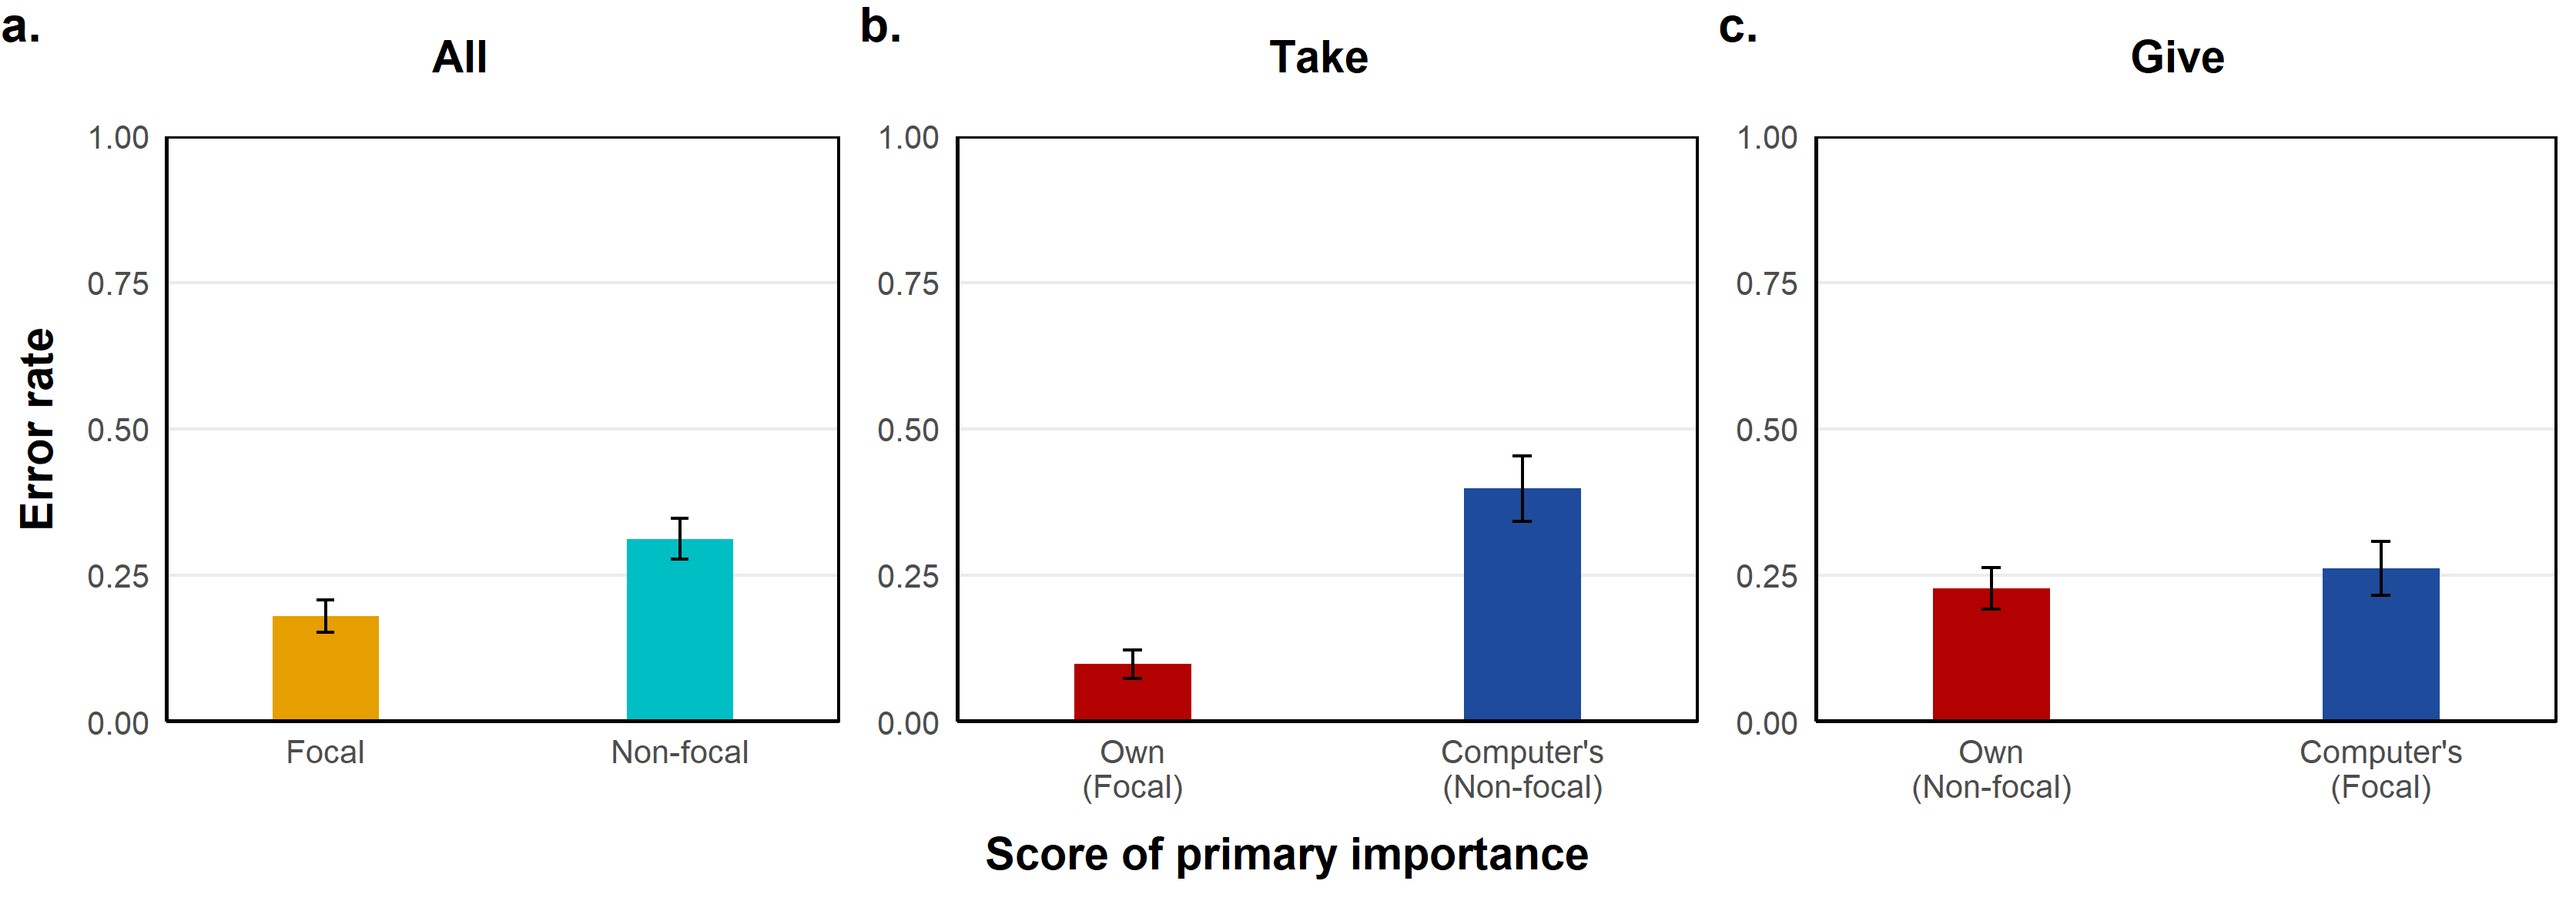
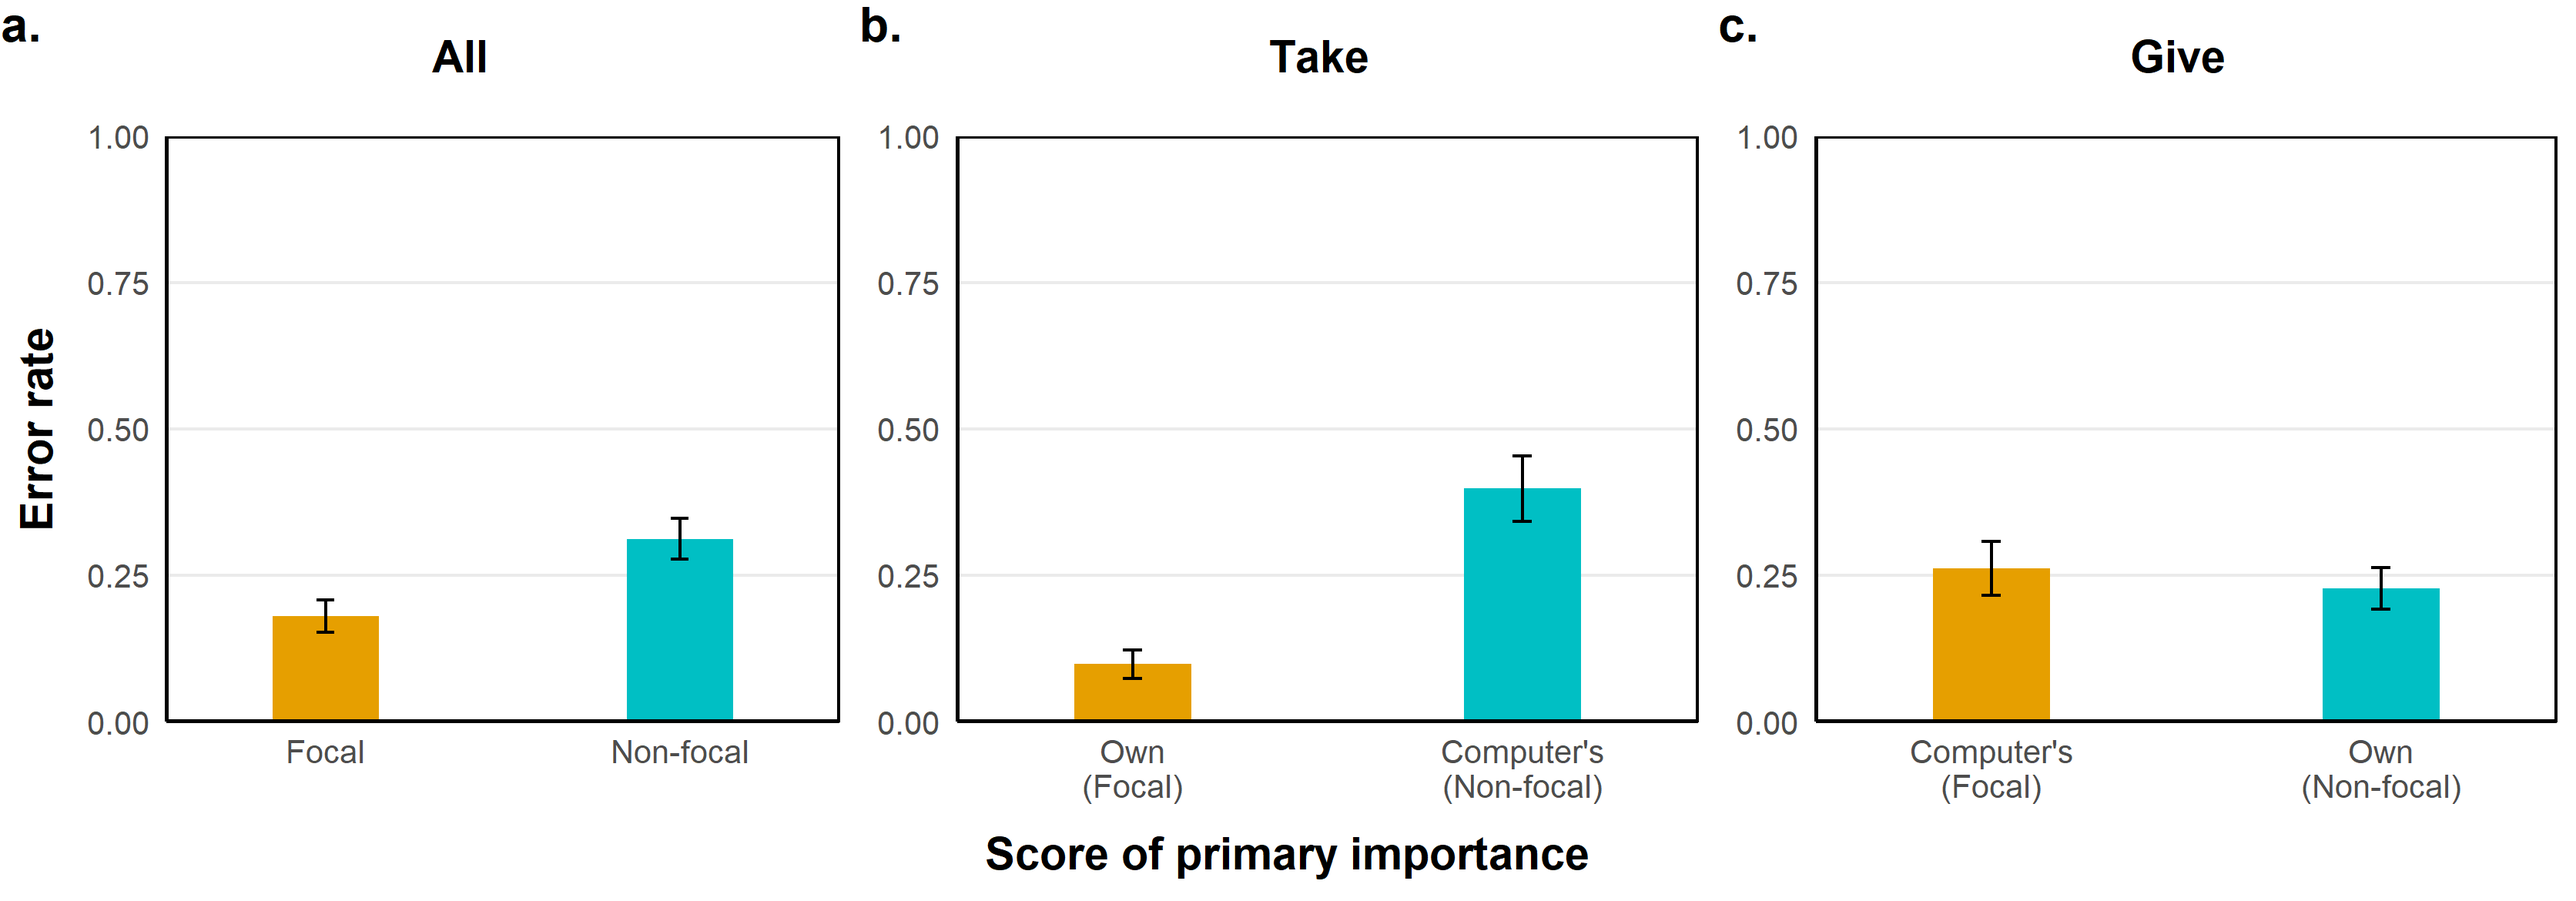
minor edits

diff --git a/tables_and_charts/numbers_check.md b/tables_and_charts/numbers_check.md
@@ -8,9 +8,9 @@ Linear combinations use t(clusters - 1); round-level models cluster by subject_i
 | Location | Statistic | Value | Unrounded |
 |---|---|---|---|
 | Intro; Results opening; Discussion | Participants / decisions / rounds each | 246 participants, 5,904 decisions, 24 rounds |  |
-| Results opening; SI Section 1 title and captions | Passed all comprehension checks on first try | 58.1% (143 participants) |  |
-| Fig. 2 caption; Supp. Fig. 6 caption | Participants per framing condition, full sample | Take N = 122, Give N = 124 |  |
-| Supp. Fig. 1 caption | Participants per framing condition, passed comprehension checks | Take N = 69, Give N = 74 |  |
+| Methods, Additional procedure details; SI Section 6 title and captions | Passed all comprehension checks on first try | 58.1% (143 participants) |  |
+| Fig. 2 caption; Supp. Fig. 10 caption | Participants per framing condition, full sample | Take N = 122, Give N = 124 |  |
+| Supp. Fig. 5 caption | Participants per framing condition, passed comprehension checks | Take N = 69, Give N = 74 |  |
 | Methods, Participants | Participants per cell (framing x first role) | take/adversarial-first = 62; take/cooperative-first = 60; give/adversarial-first = 63; give/cooperative-first = 61 |  |
 | Methods, Participants | Gender | 54% male, 44% female, 1% other (3) |  |
 | Methods, Participants | Race/ethnicity | White / Caucasian 75%; Black / African-American 11%; Asian / Asian-American 9%; Latino / Hispanic 4%; Multiple, mixed, or other 2% | White / Caucasian = 184; Black / African-American = 26; Asian / Asian-American = 21; Latino / Hispanic = 9; Multiple, mixed, or other = 6 |
@@ -24,7 +24,7 @@ Linear combinations use t(clusters - 1); round-level models cluster by subject_i
 | Location | Statistic | Value | Unrounded |
 |---|---|---|---|
 | Intro; Results, Egocentrism; Discussion | Egocentrism gap (Table 2 reg. 1, b1 + b3/2) | 17 pp (95% CI [13, 21], t(245) = 8.46, p < .001) | est = 0.1667, SE = 0.0197 |
-| Results, Egocentrism; SI Table 4 | Points lost per round (reg. 1, b1 + b3/2) | 0.36 points (95% CI [0.26, 0.45], t(245) = 7.43, p < .001) | est = 0.3572, SE = 0.0481 |
+| Results, Egocentrism; SI Table 2 | Points lost per round (reg. 1, b1 + b3/2) | 0.36 points (95% CI [0.26, 0.45], t(245) = 7.43, p < .001) | est = 0.3572, SE = 0.0481 |
 | Results, Egocentrism | Gap larger in Cooperative than Adversarial (Table 2 reg. 2, OwnScoreSecondary x Coop) | 5 pp (95% CI [-1, 12], t(245) = 1.62, p = .107) | est = 0.0522, SE = 0.0323 |
 | Intro; Results, Egocentrism (Fig. 2b,c) | Egocentrism gap, Adversarial (reg. 2) | 14 pp (95% CI [9, 19], t(245) = 5.77, p < .001) | est = 0.1406, SE = 0.0244 |
 | Intro; Results, Egocentrism (Fig. 2b,c) | Egocentrism gap, Cooperative (reg. 2) | 19 pp (95% CI [14, 25], t(245) = 7.26, p < .001) | est = 0.1928, SE = 0.0266 |
@@ -58,46 +58,46 @@ Linear combinations use t(clusters - 1); round-level models cluster by subject_i
 | Intro p1 (Adversarial) / p2 (Cooperative) | Cooperative rounds, pooled (all participants): own > 6 / computer > 6 | own 44%, computer 20% |  |
 | Intro p1 (Adversarial) / p2 (Cooperative) | Cooperative rounds, Take/Give equally weighted: own > 6 / computer > 6 | own 44%, computer 20% |  |
 | Results, Heterogeneity p3; Methods, Heterogeneity | Two-sided binomial p for > 17 of 24 | p = .023 | 0.0227 |
-| SI Table 5 caption | Two-sided binomial p for at least 10 of 12 | p = .039 | 0.0386 |
+| SI Table 3 caption | Two-sided binomial p for at least 10 of 12 | p = .039 | 0.0386 |
 | Results, Heterogeneity p3 | Take: consistent own / computer (> 17 of 24), binomial test | own 25%, computer 0% (31 vs 0, p < .001) |  |
 | Results, Heterogeneity p3 | Give: consistent own / computer (> 17 of 24) | own 8%, computer 4% |  |
 | Results, Heterogeneity p3 | Pooled: consistent own vs computer (binomial test) | 17% vs 2%, p < .001 | counts 41 vs 5 |
 | Results, Heterogeneity p3 | Pooled: consistent focal vs non-focal (binomial test) | 15% vs 4%, p < .001 | counts 36 vs 10 |
-| SI Table 6 caption | Self-report own vs computer (binomial test) | 38 vs 5, p < .001 | counts 38 vs 5 |
-| SI Table 6 caption | Self-report focal vs non-focal (binomial test) | 30 vs 13, p = .014 | counts 30 vs 13 |
-| SI Table 6 caption | Self-report, adv rounds: own vs computer; focal vs non-focal (raw counts, binomial) | 72 vs 20, p < .001; 44 vs 48, p = .755 |  |
-| SI Table 6 caption | Self-report, coop rounds: own vs computer; focal vs non-focal (raw counts, binomial) | 24 vs 19, p = .542; 22 vs 21, p = 1.000 |  |
-| SI Table 6 caption | Own-score pod share, self-report 'both', controlling for Take/Give | 56.4% (Take/Give equally weighted); 56.4% (regression-adjusted) |  |
-| SI Table 6 caption | Own-score pod share, self-report 'own', controlling for Take/Give | 69.3% (Take/Give equally weighted); 70.1% (regression-adjusted) |  |
+| SI Table 4 caption | Self-report own vs computer (binomial test) | 38 vs 5, p < .001 | counts 38 vs 5 |
+| SI Table 4 caption | Self-report focal vs non-focal (binomial test) | 30 vs 13, p = .014 | counts 30 vs 13 |
+| SI Table 4 caption | Self-report, adv rounds: own vs computer; focal vs non-focal (raw counts, binomial) | 72 vs 20, p < .001; 44 vs 48, p = .755 |  |
+| SI Table 4 caption | Self-report, coop rounds: own vs computer; focal vs non-focal (raw counts, binomial) | 24 vs 19, p = .542; 22 vs 21, p = 1.000 |  |
+| SI Table 4 caption | Own-score pod share, self-report 'both', controlling for Take/Give | 56.4% (Take/Give equally weighted); 56.4% (regression-adjusted) |  |
+| SI Table 4 caption | Own-score pod share, self-report 'own', controlling for Take/Give | 69.3% (Take/Give equally weighted); 70.1% (regression-adjusted) |  |
 
 ## Moderation
 
 | Location | Statistic | Value | Unrounded |
 |---|---|---|---|
 | Results, Error cost & complexity | Error cost: change in error rate per point at stake | -2.5 pp (95% CI [-3.2, -1.7], t(245) = -6.58, p < .001) | est = -0.0246, SE = 0.0037 |
-| Results, Error cost & complexity; Results, Learning; SI Table 7 caption | cost_c: overall error rate (SI Table 7) | b = -0.0246, t(245) = -6.58, p < .001 |  |
-| Results, Error cost & complexity; Results, Learning; SI Table 7 caption | cost_c: moderates egocentrism / focalism (SI Table 7) | egocentrism p = .438; focalism p = .349 |  |
-| Results, Error cost & complexity; Results, Learning; SI Table 7 caption | dots_c: overall error rate (SI Table 7) | b = 0.0010, t(245) = 0.87, p = .385 |  |
-| Results, Error cost & complexity; Results, Learning; SI Table 7 caption | dots_c: moderates egocentrism / focalism (SI Table 7) | egocentrism p = .099; focalism p = .260 |  |
-| Results, Error cost & complexity; Results, Learning; SI Table 7 caption | round_num_within_c: overall error rate (SI Table 7) | b = -0.0086, t(245) = -6.62, p < .001 |  |
-| Results, Error cost & complexity; Results, Learning; SI Table 7 caption | round_num_within_c: moderates egocentrism / focalism (SI Table 7) | egocentrism p = .122; focalism p = .003 |  |
-| Results, Individual differences; SI Table 8 caption | educ_rank_c: moderates egocentrism / focalism (SI Table 8) | egocentrism p = .624; focalism p = .092 |  |
-| Results, Individual differences; SI Table 8 caption | crt_c: moderates egocentrism / focalism (SI Table 8) | egocentrism p = .176; focalism p = .240 |  |
-| Results, Individual differences; SI Table 8 caption | numeracy_c: moderates egocentrism / focalism (SI Table 8) | egocentrism p = .742; focalism p = .033 |  |
-| Results, Individual differences; SI Tables 10, 11, 12 | educ_rank_c predicting payoff_optimizer (participant level, hetero SEs) | b = 0.072, t(243) = 2.82, p = .005 |  |
-| Results, Individual differences; SI Tables 10, 11, 12 | educ_rank_c predicting opt_all (participant level, hetero SEs) | b = 0.526, t(243) = 2.04, p = .043 |  |
-| Results, Individual differences; SI Tables 10, 11, 12 | educ_rank_c predicting lost (participant level, hetero SEs) | b = -1.070, t(243) = -1.77, p = .078 |  |
-| Results, Individual differences; SI Tables 10, 11, 12 | educ_rank_c predicting own_score_optimizer (participant level, hetero SEs) | b = -0.019, t(243) = -0.75, p = .457 |  |
-| Results, Individual differences; SI Tables 10, 11, 12 | crt_c predicting payoff_optimizer (participant level, hetero SEs) | b = 0.094, t(243) = 4.88, p < .001 |  |
-| Results, Individual differences; SI Tables 10, 11, 12 | crt_c predicting opt_all (participant level, hetero SEs) | b = 0.786, t(243) = 3.55, p < .001 |  |
-| Results, Individual differences; SI Tables 10, 11, 12 | crt_c predicting lost (participant level, hetero SEs) | b = -1.723, t(243) = -3.14, p = .002 |  |
-| Results, Individual differences; SI Tables 10, 11, 12 | crt_c predicting own_score_optimizer (participant level, hetero SEs) | b = -0.022, t(243) = -1.02, p = .310 |  |
-| Results, Individual differences; SI Tables 10, 11, 12 | numeracy_c predicting payoff_optimizer (participant level, hetero SEs) | b = 0.076, t(243) = 3.03, p = .003 |  |
-| Results, Individual differences; SI Tables 10, 11, 12 | numeracy_c predicting opt_all (participant level, hetero SEs) | b = 1.043, t(243) = 3.45, p < .001 |  |
-| Results, Individual differences; SI Tables 10, 11, 12 | numeracy_c predicting lost (participant level, hetero SEs) | b = -2.340, t(243) = -2.98, p = .003 |  |
-| Results, Individual differences; SI Tables 10, 11, 12 | numeracy_c predicting own_score_optimizer (participant level, hetero SEs) | b = -0.028, t(243) = -0.97, p = .332 |  |
-| Results, Learning (SI Table 13) | Egocentrism / focalism by round pair | pair 1: ego p < .001, focal p < .001; pair 2: ego p < .001, focal p < .001; pair 3: ego p < .001, focal p < .001; pair 4: ego p < .001, focal p = .002; pair 5: ego p < .001, focal p < .001; pair 6: ego p < .001, focal p < .001 |  |
-| Supp. Fig. 13 caption | Point sizes (N per round number and line) | N = 230 to N = 262 |  |
+| Results, Error cost & complexity; Results, Learning; SI Table 5 caption | cost_c: overall error rate (SI Table 5) | b = -0.0246, t(245) = -6.58, p < .001 |  |
+| Results, Error cost & complexity; Results, Learning; SI Table 5 caption | cost_c: moderates egocentrism / focalism (SI Table 5) | egocentrism p = .438; focalism p = .349 |  |
+| Results, Error cost & complexity; Results, Learning; SI Table 5 caption | dots_c: overall error rate (SI Table 5) | b = 0.0010, t(245) = 0.87, p = .385 |  |
+| Results, Error cost & complexity; Results, Learning; SI Table 5 caption | dots_c: moderates egocentrism / focalism (SI Table 5) | egocentrism p = .099; focalism p = .260 |  |
+| Results, Error cost & complexity; Results, Learning; SI Table 5 caption | round_num_within_c: overall error rate (SI Table 5) | b = -0.0086, t(245) = -6.62, p < .001 |  |
+| Results, Error cost & complexity; Results, Learning; SI Table 5 caption | round_num_within_c: moderates egocentrism / focalism (SI Table 5) | egocentrism p = .122; focalism p = .003 |  |
+| Results, Individual differences; SI Table 6 caption | educ_rank_c: moderates egocentrism / focalism (SI Table 6) | egocentrism p = .624; focalism p = .092 |  |
+| Results, Individual differences; SI Table 6 caption | crt_c: moderates egocentrism / focalism (SI Table 6) | egocentrism p = .176; focalism p = .240 |  |
+| Results, Individual differences; SI Table 6 caption | numeracy_c: moderates egocentrism / focalism (SI Table 6) | egocentrism p = .742; focalism p = .033 |  |
+| Results, Individual differences; SI Tables 8, 9, 10 | educ_rank_c predicting payoff_optimizer (participant level, hetero SEs) | b = 0.072, t(243) = 2.82, p = .005 |  |
+| Results, Individual differences; SI Tables 8, 9, 10 | educ_rank_c predicting opt_all (participant level, hetero SEs) | b = 0.526, t(243) = 2.04, p = .043 |  |
+| Results, Individual differences; SI Tables 8, 9, 10 | educ_rank_c predicting lost (participant level, hetero SEs) | b = -1.070, t(243) = -1.77, p = .078 |  |
+| Results, Individual differences; SI Tables 8, 9, 10 | educ_rank_c predicting own_score_optimizer (participant level, hetero SEs) | b = -0.019, t(243) = -0.75, p = .457 |  |
+| Results, Individual differences; SI Tables 8, 9, 10 | crt_c predicting payoff_optimizer (participant level, hetero SEs) | b = 0.094, t(243) = 4.88, p < .001 |  |
+| Results, Individual differences; SI Tables 8, 9, 10 | crt_c predicting opt_all (participant level, hetero SEs) | b = 0.786, t(243) = 3.55, p < .001 |  |
+| Results, Individual differences; SI Tables 8, 9, 10 | crt_c predicting lost (participant level, hetero SEs) | b = -1.723, t(243) = -3.14, p = .002 |  |
+| Results, Individual differences; SI Tables 8, 9, 10 | crt_c predicting own_score_optimizer (participant level, hetero SEs) | b = -0.022, t(243) = -1.02, p = .310 |  |
+| Results, Individual differences; SI Tables 8, 9, 10 | numeracy_c predicting payoff_optimizer (participant level, hetero SEs) | b = 0.076, t(243) = 3.03, p = .003 |  |
+| Results, Individual differences; SI Tables 8, 9, 10 | numeracy_c predicting opt_all (participant level, hetero SEs) | b = 1.043, t(243) = 3.45, p < .001 |  |
+| Results, Individual differences; SI Tables 8, 9, 10 | numeracy_c predicting lost (participant level, hetero SEs) | b = -2.340, t(243) = -2.98, p = .003 |  |
+| Results, Individual differences; SI Tables 8, 9, 10 | numeracy_c predicting own_score_optimizer (participant level, hetero SEs) | b = -0.028, t(243) = -0.97, p = .332 |  |
+| Results, Learning (SI Table 11) | Egocentrism / focalism by round pair | pair 1: ego p < .001, focal p < .001; pair 2: ego p < .001, focal p < .001; pair 3: ego p < .001, focal p < .001; pair 4: ego p < .001, focal p = .002; pair 5: ego p < .001, focal p < .001; pair 6: ego p < .001, focal p < .001 |  |
+| Supp. Fig. 3 caption | Point sizes (N per round number and line) | N = 230 to N = 262 |  |
 | Methods, Regression analyses; SI Table 14 | Participants choosing the payoff-maximizing pod in all 24 rounds | 33 participants |  |
 | SI Table 14 | Response time, full sample: OwnScoreSecondary / Coop / OwnScoreSecondary x Give / egocentrism | p = .154 / p < .001 / p = .604 / p = .272 |  |
 
